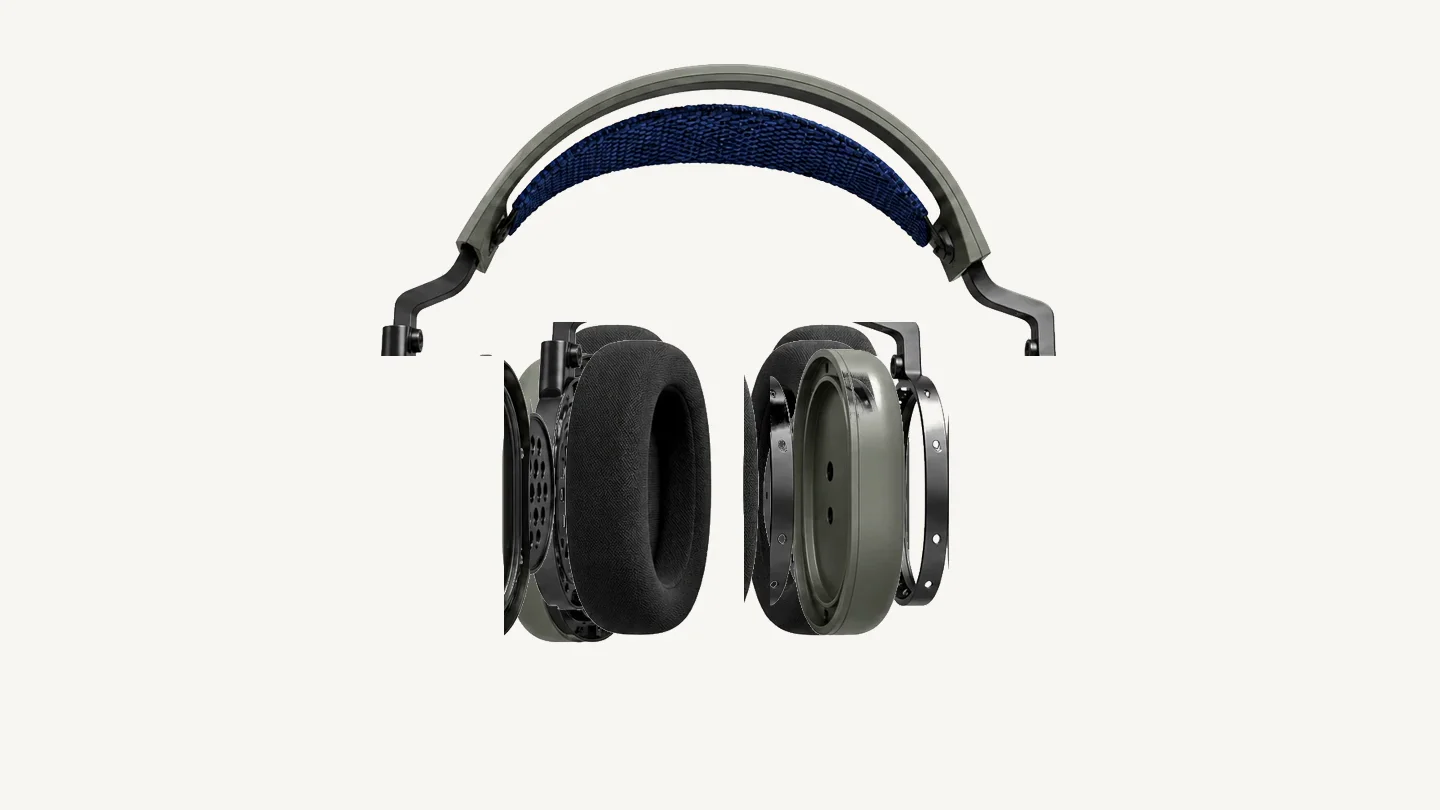
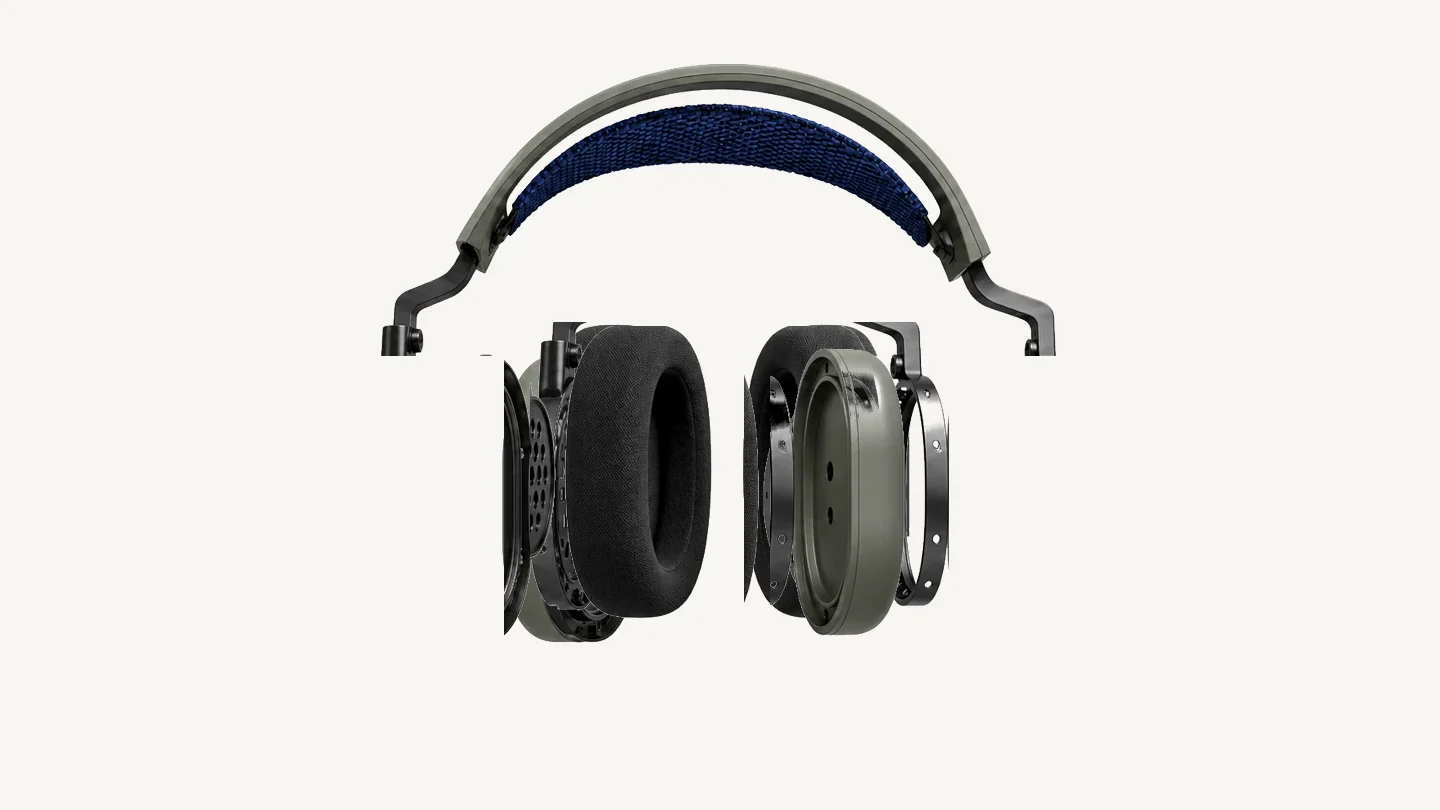
Clean up disassembly composition and opening state

diff --git a/src/styles.css b/src/styles.css
@@ -589,6 +589,19 @@ label {
   position: relative;
 }
 
+.disassembly-cover {
+  position: absolute;
+  z-index: 2;
+  inset: 0;
+  width: 100%;
+  height: 100%;
+  object-fit: contain;
+  filter: drop-shadow(0 1.4rem 1.8rem rgba(16, 17, 16, 0.1));
+  pointer-events: none;
+  will-change: opacity;
+  transform: scale(1.42);
+}
+
 .disassembly-video {
   position: relative;
   z-index: 1;
@@ -1794,6 +1807,52 @@ label {
   .reservation-success h2 {
     font-size: 3.2rem;
   }
+}
+
+/* Clean editorial treatment for the disassembly chapter. */
+.object-stage::before { right: 4vw; left: 4vw; }
+.chapter-label { left: 4vw; }
+.object-heading {
+  top: calc(var(--header-height) + 4.6rem);
+  left: 4vw;
+  max-width: 48rem;
+  font-family: -apple-system, BlinkMacSystemFont, "SF Pro Display", "Helvetica Neue", Arial, sans-serif;
+  font-size: clamp(3rem, 5.4vw, 5.8rem);
+  font-weight: 540;
+  line-height: .94;
+  letter-spacing: -.065em;
+  text-transform: none;
+}
+.object-product-wrap {
+  top: 25%;
+  width: min(86vw, 1280px);
+  height: 60%;
+}
+.object-callouts {
+  inset: auto 4vw 2.5rem;
+  display: grid;
+  grid-template-columns: repeat(3, 1fr);
+  gap: clamp(1.5rem, 4vw, 5rem);
+}
+.object-callout,
+.callout--frame,
+.callout--seal,
+.callout--band {
+  position: relative;
+  inset: auto;
+  width: auto;
+  max-width: 18rem;
+}
+.object-callout::before,
+.object-callout::after { display: none; }
+.object-callout h3 { font-size: .92rem; font-weight: 550; text-transform: none; }
+.object-callout p { max-width: 15rem; color: #74756f; font-size: .62rem; line-height: 1.45; }
+.object-callout__rule { opacity: .4; }
+
+@media (max-width: 799px) {
+  .object-heading { top: 7.8rem; font-size: clamp(3rem, 14vw, 4.6rem); }
+  .object-product-wrap { top: 17rem; width: 110vw; height: 43vh; }
+  .object-callouts { inset: auto 1.25rem 2rem; grid-template-columns: 1fr; gap: 1.4rem; }
 }
 
 @media (min-width: 800px) and (max-width: 1180px) {

diff --git a/src/components/ui/DisassemblyVideo.jsx b/src/components/ui/DisassemblyVideo.jsx
@@ -3,6 +3,7 @@ import { progressToVideoTime, smoothVideoTime } from '../../lib/disassemblyVideo
 
 const DisassemblyVideo = forwardRef(function DisassemblyVideo(_, forwardedRef) {
   const videoRef = useRef(null)
+  const coverRef = useRef(null)
   const progressRef = useRef(0)
   const durationRef = useRef(4)
   const frameRef = useRef(0)
@@ -27,7 +28,14 @@ const DisassemblyVideo = forwardRef(function DisassemblyVideo(_, forwardedRef) {
     forwardedRef,
     () => ({
       setProgress(progress) {
-        progressRef.current = progress
+        const clamped = Math.min(1, Math.max(0, progress))
+        progressRef.current = Math.min(1, Math.max(0, (clamped - 0.08) / 0.92))
+        if (coverRef.current) {
+          const reveal = Math.min(1, Math.max(0, (clamped - 0.08) / 0.18))
+          coverRef.current.style.opacity = String(1 - reveal)
+          coverRef.current.style.visibility = reveal === 1 ? 'hidden' : 'visible'
+          if (videoRef.current) videoRef.current.style.opacity = String(reveal)
+        }
         seek()
       },
     }),
@@ -54,6 +62,14 @@ const DisassemblyVideo = forwardRef(function DisassemblyVideo(_, forwardedRef) {
           seek()
           event.currentTarget.classList.add('is-ready')
         }}
+      />
+      <img
+        ref={coverRef}
+        className="disassembly-cover"
+        src="/assets/form01-hero-cutout.png"
+        alt=""
+        width="1586"
+        height="992"
       />
     </div>
   )

diff --git a/src/components/ObjectStudy.jsx b/src/components/ObjectStudy.jsx
@@ -137,10 +137,6 @@ export default function ObjectStudy() {
           ))}
         </div>
 
-        <p className="object-orbit mono">Scrub to separate</p>
-        <div className="object-vertical-word" aria-hidden="true">
-          Form
-        </div>
       </div>
     </section>
   )

diff --git a/src/App.jsx b/src/App.jsx
@@ -1,5 +1,4 @@
 import { useState } from 'react'
-import CustomCursor from './components/CustomCursor.jsx'
 import { BrowserRouter, Route, Routes } from 'react-router-dom'
 import Header from './components/Header.jsx'
 import MotionPreference from './components/MotionPreference.jsx'
@@ -16,7 +15,6 @@ export default function App() {
 
   return (
     <BrowserRouter><SmoothScroll>
-      <CustomCursor />
       <MotionPreference />
       <Header onReserve={() => setReservationOpen(true)} />
       <PageTransition><Routes>

diff --git a/src/lib/disassemblyVideo.js b/src/lib/disassemblyVideo.js
@@ -4,7 +4,7 @@ export function progressToVideoTime(progress, duration) {
   return Math.min(1, Math.max(0, safeProgress)) * safeDuration
 }
 
-export function smoothVideoTime(currentTime, targetTime, maxStep = 1 / 24) {
+export function smoothVideoTime(currentTime, targetTime, maxStep = 1 / 30) {
   const current = Number.isFinite(currentTime) ? currentTime : 0
   const target = Number.isFinite(targetTime) ? targetTime : current
   const delta = target - current